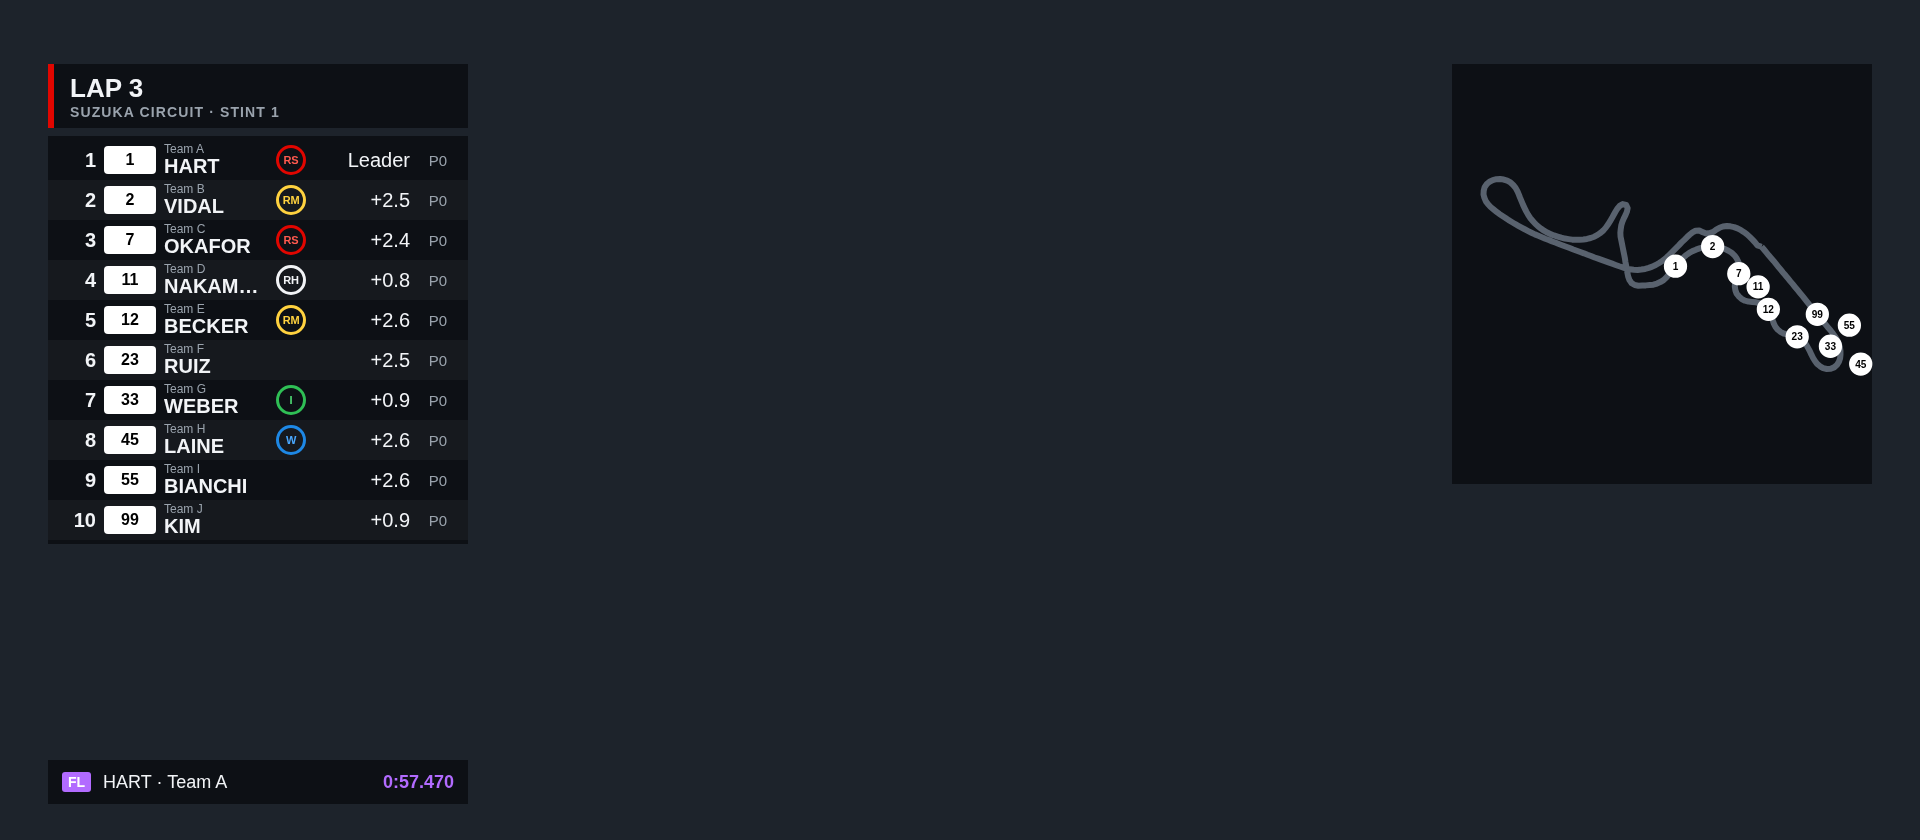
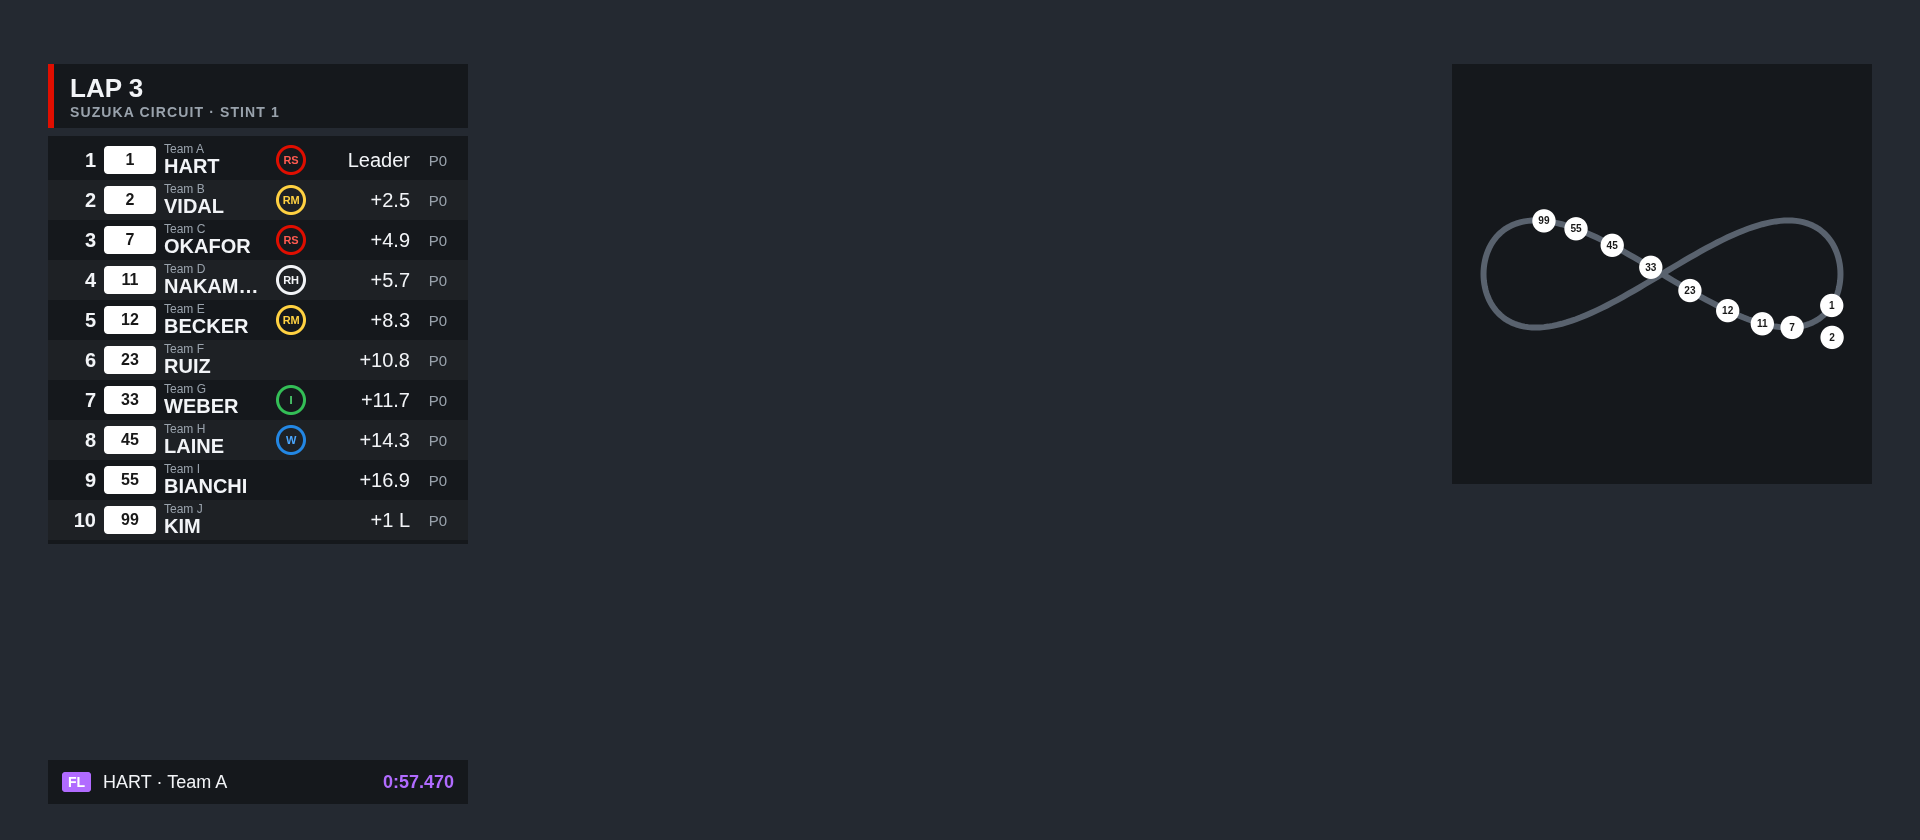
feat(obs): the timing tower shows the gap to the leader

diff --git a/src/obs/drivers.html b/src/obs/drivers.html
@@ -130,7 +130,7 @@
     if (phase === 2 && typeof e.fuel_l === "number") return e.fuel_l.toFixed(1) + " L";
     if (i === 0) return "Leader";
     if (e.lapped) return "+" + e.lapped + " L";
-    return typeof e.interval_s === "number" ? "+" + e.interval_s.toFixed(1) : "";
+    return typeof e.gap_s === "number" ? "+" + e.gap_s.toFixed(1) : "";
   }
   function row(e, i, value, pits, fl) {
     const r = el("div", "dd-row" + (e.status === "box" ? " box" : "") +

diff --git a/tests/test_driver_routes.py b/tests/test_driver_routes.py
@@ -93,6 +93,14 @@ def t_the_dashboard_page_and_its_override_are_served_on_the_tailnet():
         srv.shutdown()
 
 
+def t_tower_gap_column_reads_the_leader_gap():
+    with open(os.path.join(ROOT, "src", "obs", "drivers.html"), encoding="utf-8") as fh:
+        src = fh.read()
+    col = src[src.index("function column("):src.index("function row(")]
+    assert "e.gap_s" in col, "the tower column shows the gap to the leader"
+    assert "e.interval_s" not in col, "the tower column no longer shows the interval"
+
+
 def t_the_public_timing_link_reaches_timing_data_and_nothing_else():
     d = tempfile.mkdtemp()
     link_path = os.path.join(d, "timing-link.json")
